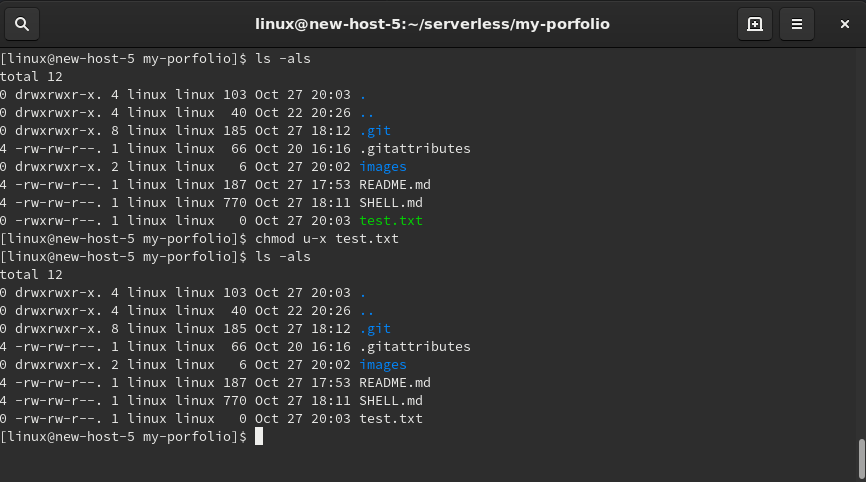
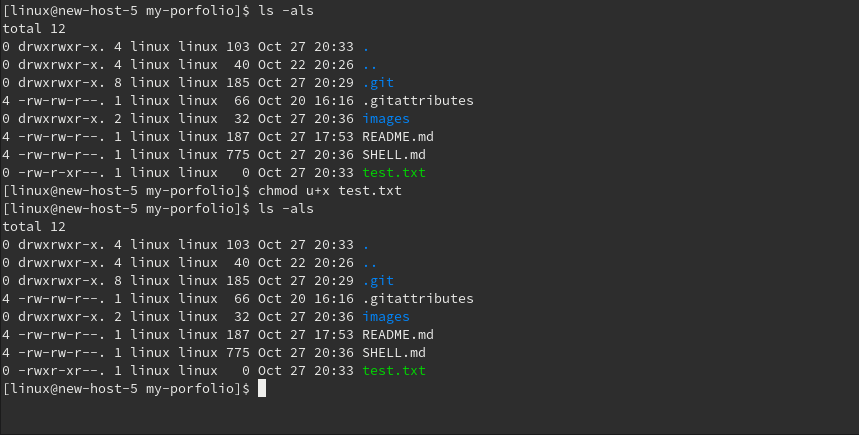
More stuff

diff --git a/SHELL.md b/SHELL.md
@@ -11,7 +11,8 @@ Gives user execute permission.
 
 ### Absolute Mode
 chmod [mode] filename<br />
-ex. chmod 666 myfile gives read to owner, group, and others
+![](images/2.png?raw=true)<br />
+Gives user execute permission.
 
 ### Changing file ownership and group ownership
 chown -R -h owner filename<br />
